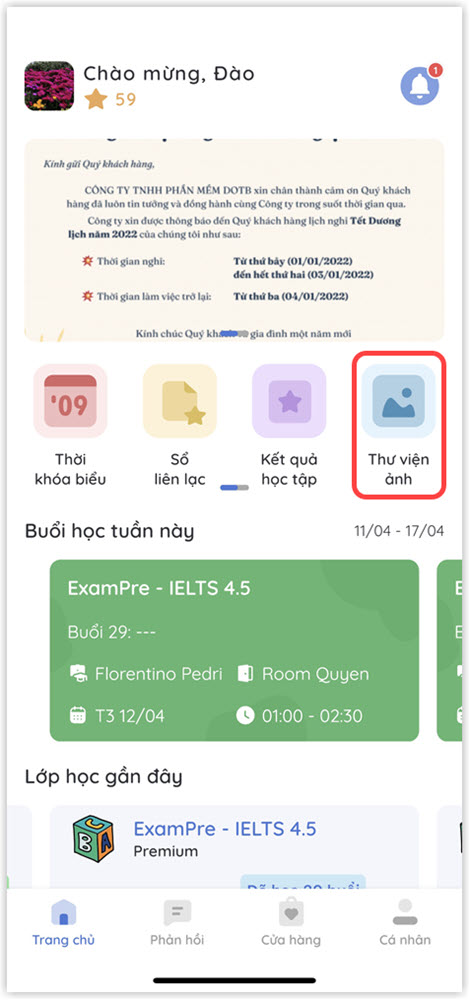
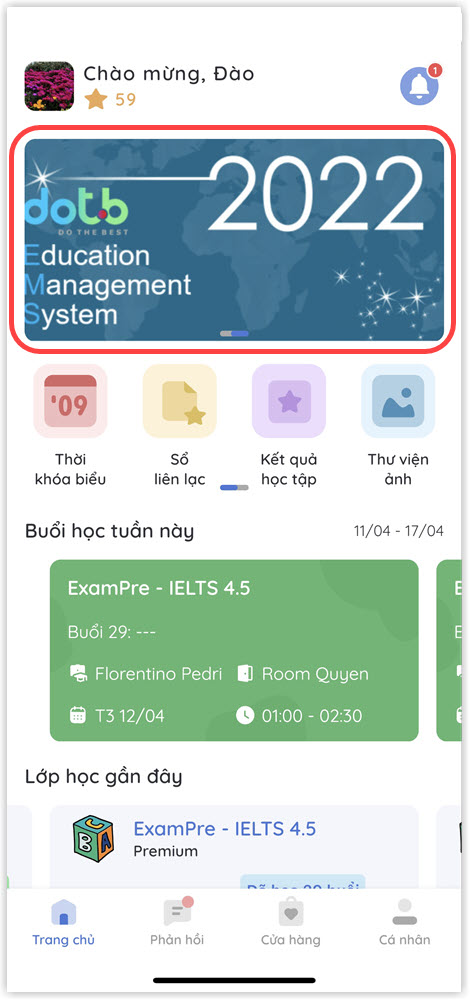
GitBook: [#297] No subject

diff --git a/mobile/ghi-nhan-phan-hoi.md b/mobile/ghi-nhan-phan-hoi.md
@@ -1,10 +1,10 @@
 # Ghi nhận phản hồi
 
-> **Bước 1:** Tại màn hình Trang chủ, click vào chức năng Phản hồi để phản hồi về trung tâm.
+> **Bước 1:** Tại màn hình **Trang chủ**, click vào chức năng **Phản hồi** để phản hồi về trung tâm.
 
 ![](<../.gitbook/assets/1 (7) (1).jpg>)
 
-> **Bước 2:** Click vào biểu tượng dấu cộng góc phải dưới cùng để tạo mới Phản hồi.
+> **Bước 2:** Click vào biểu tượng **dấu cộng** góc phải dưới cùng để tạo mới Phản hồi.
 
 ![](<../.gitbook/assets/2 (7) (1).jpg>)
 
@@ -15,8 +15,8 @@
 {% hint style="info" %}
 Ghi chú:
 
-1. Liên hệ trực tiếp: Gọi điện trực tiếp đến hotline trung tâm.
-2. Tạo phản hồi: Phản hồi dưới dạng gửi văn bản đến trung tâm
+1. **Liên hệ trực tiếp**: Gọi điện trực tiếp đến hotline trung tâm.
+2. **Tạo phản hồi:** Phản hồi dưới dạng gửi văn bản đến trung tâm
 {% endhint %}
 
 > **Bước 4:** Chọn Loại phản hồi.
@@ -39,7 +39,7 @@ Ghi chú:
 ![](<../.gitbook/assets/image (109).png>) **Khác:** Những trao đổi khác với 3 nội dung trên.
 {% endhint %}
 
-> **Bước 5:** Nhập nội dung cần phản hồi, sau đó nhấn Gửi.
+> **Bước 5:** Nhập nội dung cần phản hồi, sau đó nhấn **Gửi**.
 
 ![](<../.gitbook/assets/6 (2).jpg>)
 

diff --git a/mobile/lich-su-khoa-hoc.md b/mobile/lich-su-khoa-hoc.md
@@ -4,7 +4,7 @@
 
 #### CÁCH 1:
 
-> **Bước 1**: Tại màn hình Trang chủ, click vào chức năng Sổ liên lạc để theo dõi Thông tin bài giảng và bài tập về nhà của học viên theo lớp. &#x20;
+> **Bước 1**: Tại màn hình **Trang chủ**, click vào chức năng **Sổ liên lạc** để theo dõi Thông tin bài giảng và bài tập về nhà của học viên theo lớp. &#x20;
 
 ![](../.gitbook/assets/12.1.jpg)
 
@@ -22,7 +22,7 @@
 
 #### CÁCH 2:
 
-> **Bước 1**: Tại màn hình Cá nhân, Click chọn tab Lớp học để hiện thị danh sách lớp mà học viên đã tham dự.&#x20;
+> **Bước 1**: Tại màn hình **Cá nhân**, click chọn chức năng **Lớp học** để hiện thị danh sách lớp mà học viên đã tham dự.&#x20;
 
 ![](../.gitbook/assets/16.2.jpg)
 
@@ -30,7 +30,7 @@
 
 ![](<../.gitbook/assets/2.1 (2).jpg>)
 
-> **Bước 3:** Màn hình thông tin lớp học sẽ được hiển thị như hình bên dưới. Sau đó, chọn chức năng "Sổ liên lạc" để xem thông tin chi tiết về các buổi học.&#x20;
+> **Bước 3:** Màn hình thông tin lớp học sẽ được hiển thị như hình bên dưới. Sau đó, chọn chức năng **"Sổ liên lạc"** để xem thông tin chi tiết về các buổi học.&#x20;
 
 ![](../.gitbook/assets/3.1.jpg)
 

diff --git a/mobile/theo-doi-ket-qua-hoc-tap.md b/mobile/theo-doi-ket-qua-hoc-tap.md
@@ -1,10 +1,10 @@
 # Xem kết quả học tập
 
-#### Có thể thực hiện bằng 2 cách sau:
+### Có thể thực hiện bằng 2 cách sau:
 
 > **CÁCH 1:**
 >
-> **Bước 1:** Tại màn hình Trang chủ, click chọn tính năng Kết quả học tập.
+> **Bước 1:** Tại màn hình **Trang chủ**, click chọn tính năng **Kết quả học tập**.
 
 ![](<../.gitbook/assets/1 (8).jpg>)
 
@@ -18,11 +18,11 @@
 
 > **CÁCH 2:**
 >
-> **Bước 1:** Tại màn hình "Cá nhân", chọn chức năng "Lớp học" để hiển thị danh sách lớp của học viên. Sau đó chọn một lớp bất kì để xem kết quả học tập.
+> **Bước 1:** Tại màn hình **Cá nhân**, chọn chức năng **Lớp học** để hiển thị danh sách lớp của học viên. Sau đó chọn một lớp bất kì để xem kết quả học tập.
 
 ![](<../.gitbook/assets/7 (2).jpg>)
 
-> **Bước 2:** Tại màn hình Lớp học, lựa chọn chức năng Kết quả học tập để hiển thị thông tin.
+> **Bước 2:** Tại màn hình **Lớp học**, lựa chọn chức năng **Kết quả học tập** để hiển thị thông tin.
 
 ![](<../.gitbook/assets/8 (2).jpg>)
 

diff --git a/mobile/lich-su-khoan-thu.md b/mobile/lich-su-khoan-thu.md
@@ -1,14 +1,14 @@
 # Lịch sử khoản thu
 
-> **Bước 1:** Truy cập tính năng Học phí trên ứng dụng. Có thể thực hiện theo 2 cách sau::
+> **Bước 1:** Truy cập tính năng **Học phí** trên ứng dụng. Có thể thực hiện theo 2 cách sau::
 >
 > **-> Cách 1:**
 >
-> * Click vào avatar của học viên để hiển thị danh sách chức năng trên ứng dụng.
+> * Click vào **avatar** của học viên để hiển thị danh sách chức năng trên ứng dụng.
 
 ![](../.gitbook/assets/17.jpg)
 
-> * Tiếp theo, nhấp vào chức năng Học phí để theo dõi lịch sử các khoản thu của học viên.
+> * Tiếp theo, nhấp vào chức năng **Học phí** để theo dõi lịch sử các khoản thu của học viên.
 
 ![](../.gitbook/assets/18.jpg)
 
@@ -18,7 +18,7 @@
 
 > \-> **Cách 2:**&#x20;
 >
-> * Tại màn hình Cá nhân, click vào  "Học phí" để xem thông tin các khoản thu của học viên.
+> * Tại màn hình Cá nhân, click vào chức năng **Học phí** để xem thông tin các khoản thu của học viên.
 
 ![](../.gitbook/assets/21.jpg)
 

diff --git a/mobile/quan-li-ket-qua-hoc-vien.md b/mobile/quan-li-ket-qua-hoc-vien.md
@@ -6,11 +6,11 @@
 
 :point\_right: Đối với người dùng IOS:  [<img src="../.gitbook/assets/image (15).png" alt="" data-size="line">](https://apps.apple.com/vn/app/dotb-crm/id1475488445)&#x20;
 
-> **Bước 2:** Mở ứng dụng DotB SEA trên Mobile và Click vào ô Bắt đầu trên màn hình.
+> **Bước 2:** Mở ứng dụng **DotB SEA** trên Mobile và Click vào ô Bắt đầu trên màn hình.
 
 ![](../.gitbook/assets/1.6.jpg)
 
-> **Bước 3:** Lựa chọn vai trò là "Học viên/Phụ huynh" sau đó Click vào ô Tiếp theo trên màn hình
+> **Bước 3:** Lựa chọn vai trò là **"Học viên/Phụ huynh"** sau đó Click vào ô **Tiếp theo** trên màn hình
 
 ![](<../.gitbook/assets/2.1 (1).jpg>)
 
@@ -18,7 +18,7 @@
 
 ![](../.gitbook/assets/3.2.jpg)
 
-> **Bước 5**: Đăng nhập thành công, ứng dụng sẽ hiển thị màn hình Trang chủ như hình bên dưới:
+> **Bước 5**: Đăng nhập thành công, ứng dụng sẽ hiển thị màn hình **Trang chủ** như hình bên dưới:
 
 ![](<../.gitbook/assets/4.1 (1).jpg>)
 

diff --git a/mobile/thong-tin-thoi-khoa-bieu.md b/mobile/thong-tin-thoi-khoa-bieu.md
@@ -4,15 +4,19 @@
 
 > **Bước 1:** Truy cập chức năng Thời khóa biểu&#x20;
 >
-> _Cách 1:_ Tại màn hình Trang chủ, Click vào chức năng Thời khóa biểu để theo dõi Thời khóa biểu của học viên.
+> \-> Cách 1_:_&#x20;
+>
+> * Tại màn hình **Trang chủ**, Click vào chức năng **Thời khóa biểu** để theo dõi Thời khóa biểu của học viên.
 
 ![](<../.gitbook/assets/5 (2).jpg>)
 
-> _Cách 2:_ Tại màn hình Trang chủ, Click vào ảnh dại diện người dùng để hiển thị danh sách chức năng trên ứng dụng.
+> \-> Cách 2_:_&#x20;
+>
+> * Tại màn hình **Trang chủ**, Click vào **ảnh dại diện** người dùng để hiển thị danh sách chức năng trên ứng dụng.
 
 ![](<../.gitbook/assets/6 (1).jpg>)
 
-> Sau đó chọn chức năng Thời khóa biểu.
+> * Sau đó chọn chức năng **Thời khóa biểu.**
 
 ![](<../.gitbook/assets/7 (1) (1).jpg>)
 

diff --git a/mobile/cai-dat-ngon-ngu.md b/mobile/cai-dat-ngon-ngu.md
@@ -6,11 +6,11 @@ description: >-
 
 # Cài đặt ngôn ngữ
 
-#### &#x20;Có 2 cách để thay đổi ngôn ngữ ứng dụng:
+### &#x20;Có 2 cách để thay đổi ngôn ngữ ứng dụng:
 
 > **CÁCH 1:  TRƯỚC KHI ĐĂNG NHẬP**
 >
-> **Bước 1:** Tại màn hình chọn Vai trò, người dùng nhấp vào **ô hình chữ nhật** như hình bên dưới để thay đổi ngôn ngữ.
+> **Bước 1:** Tại màn hình chọn **Vai trò**, người dùng nhấp vào **ô hình chữ nhật** như hình bên dưới để thay đổi ngôn ngữ.
 
 ![](<../.gitbook/assets/1 (9).jpg>)
 
@@ -20,7 +20,7 @@ description: >-
 
 > **Bước 3:** Sau khi đổi ngôn ngữ xong, ứng dụng sẽ có giao diện như sau.
 
-![](<../.gitbook/assets/2 (9).jpg>)
+![](<../.gitbook/assets/2 (9) (1).jpg>)
 
 > **CÁCH 2: SAU KHI ĐĂNG NHẬP**
 >

diff --git a/mobile/quan-ly-diem-tich-luy.md b/mobile/quan-ly-diem-tich-luy.md
@@ -1,10 +1,10 @@
 # Quản lý điểm tích lũy
 
-&#x20;**Bước 1:**  Tại màn hình **Cá nhân**, click vào chức năng  để hiển thị danh sách chức năng của ứng dụng.
+&#x20;**Bước 1:**  Tại màn hình **Cá nhân**, click vào chức năng **Điểm tích lũy** để hiển thị thông tin về điểm tích lũy của học sinh.
 
 ![](<../.gitbook/assets/1 (7).jpg>)
 
-> **Bước 2:** Ứng dụng sẽ hiển thị chi tiết về điểm tích lũy được cộng và điểm tích lũy bị trừ
+> **Bước 2:** Ứng dụng sẽ hiển thị lịch sử chi tiết về **điểm tích lũy được cộng** và **điểm tích lũy bị trừ**
 
 ![](<../.gitbook/assets/2 (7).jpg>)
 

diff --git a/mobile/theo-doi-tin-tuc.md b/mobile/theo-doi-tin-tuc.md
@@ -1,0 +1,23 @@
+---
+description: >-
+  Người dùng có thể theo dõi và cập nhật những thông báo của Trung tâm ngay tại
+  ứng dụng.
+---
+
+# Theo dõi tin tức
+
+> **Bước 1:** Tại đầu trang của màn hình **Trang chủ**, **ô hình chữ nhật** sẽ hiển thị những tin tức nổi bật nhất của trung tâm.
+
+![](<../.gitbook/assets/1 (11).jpg>)
+
+{% hint style="info" %}
+**Ghi chú:**
+
+* **Ô hình chữ nhật:** Hiển thị tin tức dưới dạng slider
+{% endhint %}
+
+> **Bước 2:** Tại cuối trang của màn hình **Trang chủ**, sẽ hiển thị những**Tin tức & sự kiện** khác.
+
+&#x20;
+
+![](<../.gitbook/assets/2 (9).jpg>)

diff --git a/mobile/xem-thu-vien-anh-cua-hoc-vien.md b/mobile/xem-thu-vien-anh-cua-hoc-vien.md
@@ -1,8 +1,8 @@
 # Xem thư viện ảnh của học viên
 
-> **Bước 1:** Tại màn hình Trang chủ, click vào **Thư viện ảnh** để xem thư viện ảnh của học viên trong lớp.
+> **Bước 1:** Tại màn hình **Trang chủ**, click vào **Thư viện ảnh** để xem thư viện ảnh của học viên trong lớp.
 
-![](<../.gitbook/assets/1 (11).jpg>)
+![](<../.gitbook/assets/1 (11) (1).jpg>)
 
 > **Bước 2:** Ứng dụng hiển thị thư viện ảnh của học viên theo lớp
 

diff --git a/SUMMARY.md b/SUMMARY.md
@@ -8,6 +8,7 @@
   * [Thông tin bài giảng và bài tập về nhà](mobile/lich-su-khoa-hoc.md)
   * [Lịch sử khoản thu](mobile/lich-su-khoan-thu.md)
   * [Ghi nhận phản hồi](mobile/ghi-nhan-phan-hoi.md)
+  * [Theo dõi tin tức](mobile/theo-doi-tin-tuc.md)
   * [Xem kết quả học tập](mobile/theo-doi-ket-qua-hoc-tap.md)
   * [Xem thư viện ảnh của học viên](mobile/xem-thu-vien-anh-cua-hoc-vien.md)
   * [Quản lý tài khoản](mobile/quan-li-tai-khoan.md)

diff --git a/mobile/doi-mat-khau-ung-dung.md b/mobile/doi-mat-khau-ung-dung.md
@@ -4,7 +4,7 @@ description: Lưu ý rằng mật khẩu khi thay đổi phải có ít nhất t
 
 # Đổi mật khẩu ứng dụng
 
-> **Bước 1:** Tại màn hình **Trang chủ**, click vào icon avatar để hiển thị danh sách chức năng của ứng dụng.
+> **Bước 1:** Tại màn hình **Trang chủ**, click vào icon **avatar** để hiển thị danh sách chức năng của ứng dụng.
 
 ![](../.gitbook/assets/17.jpg)
 
